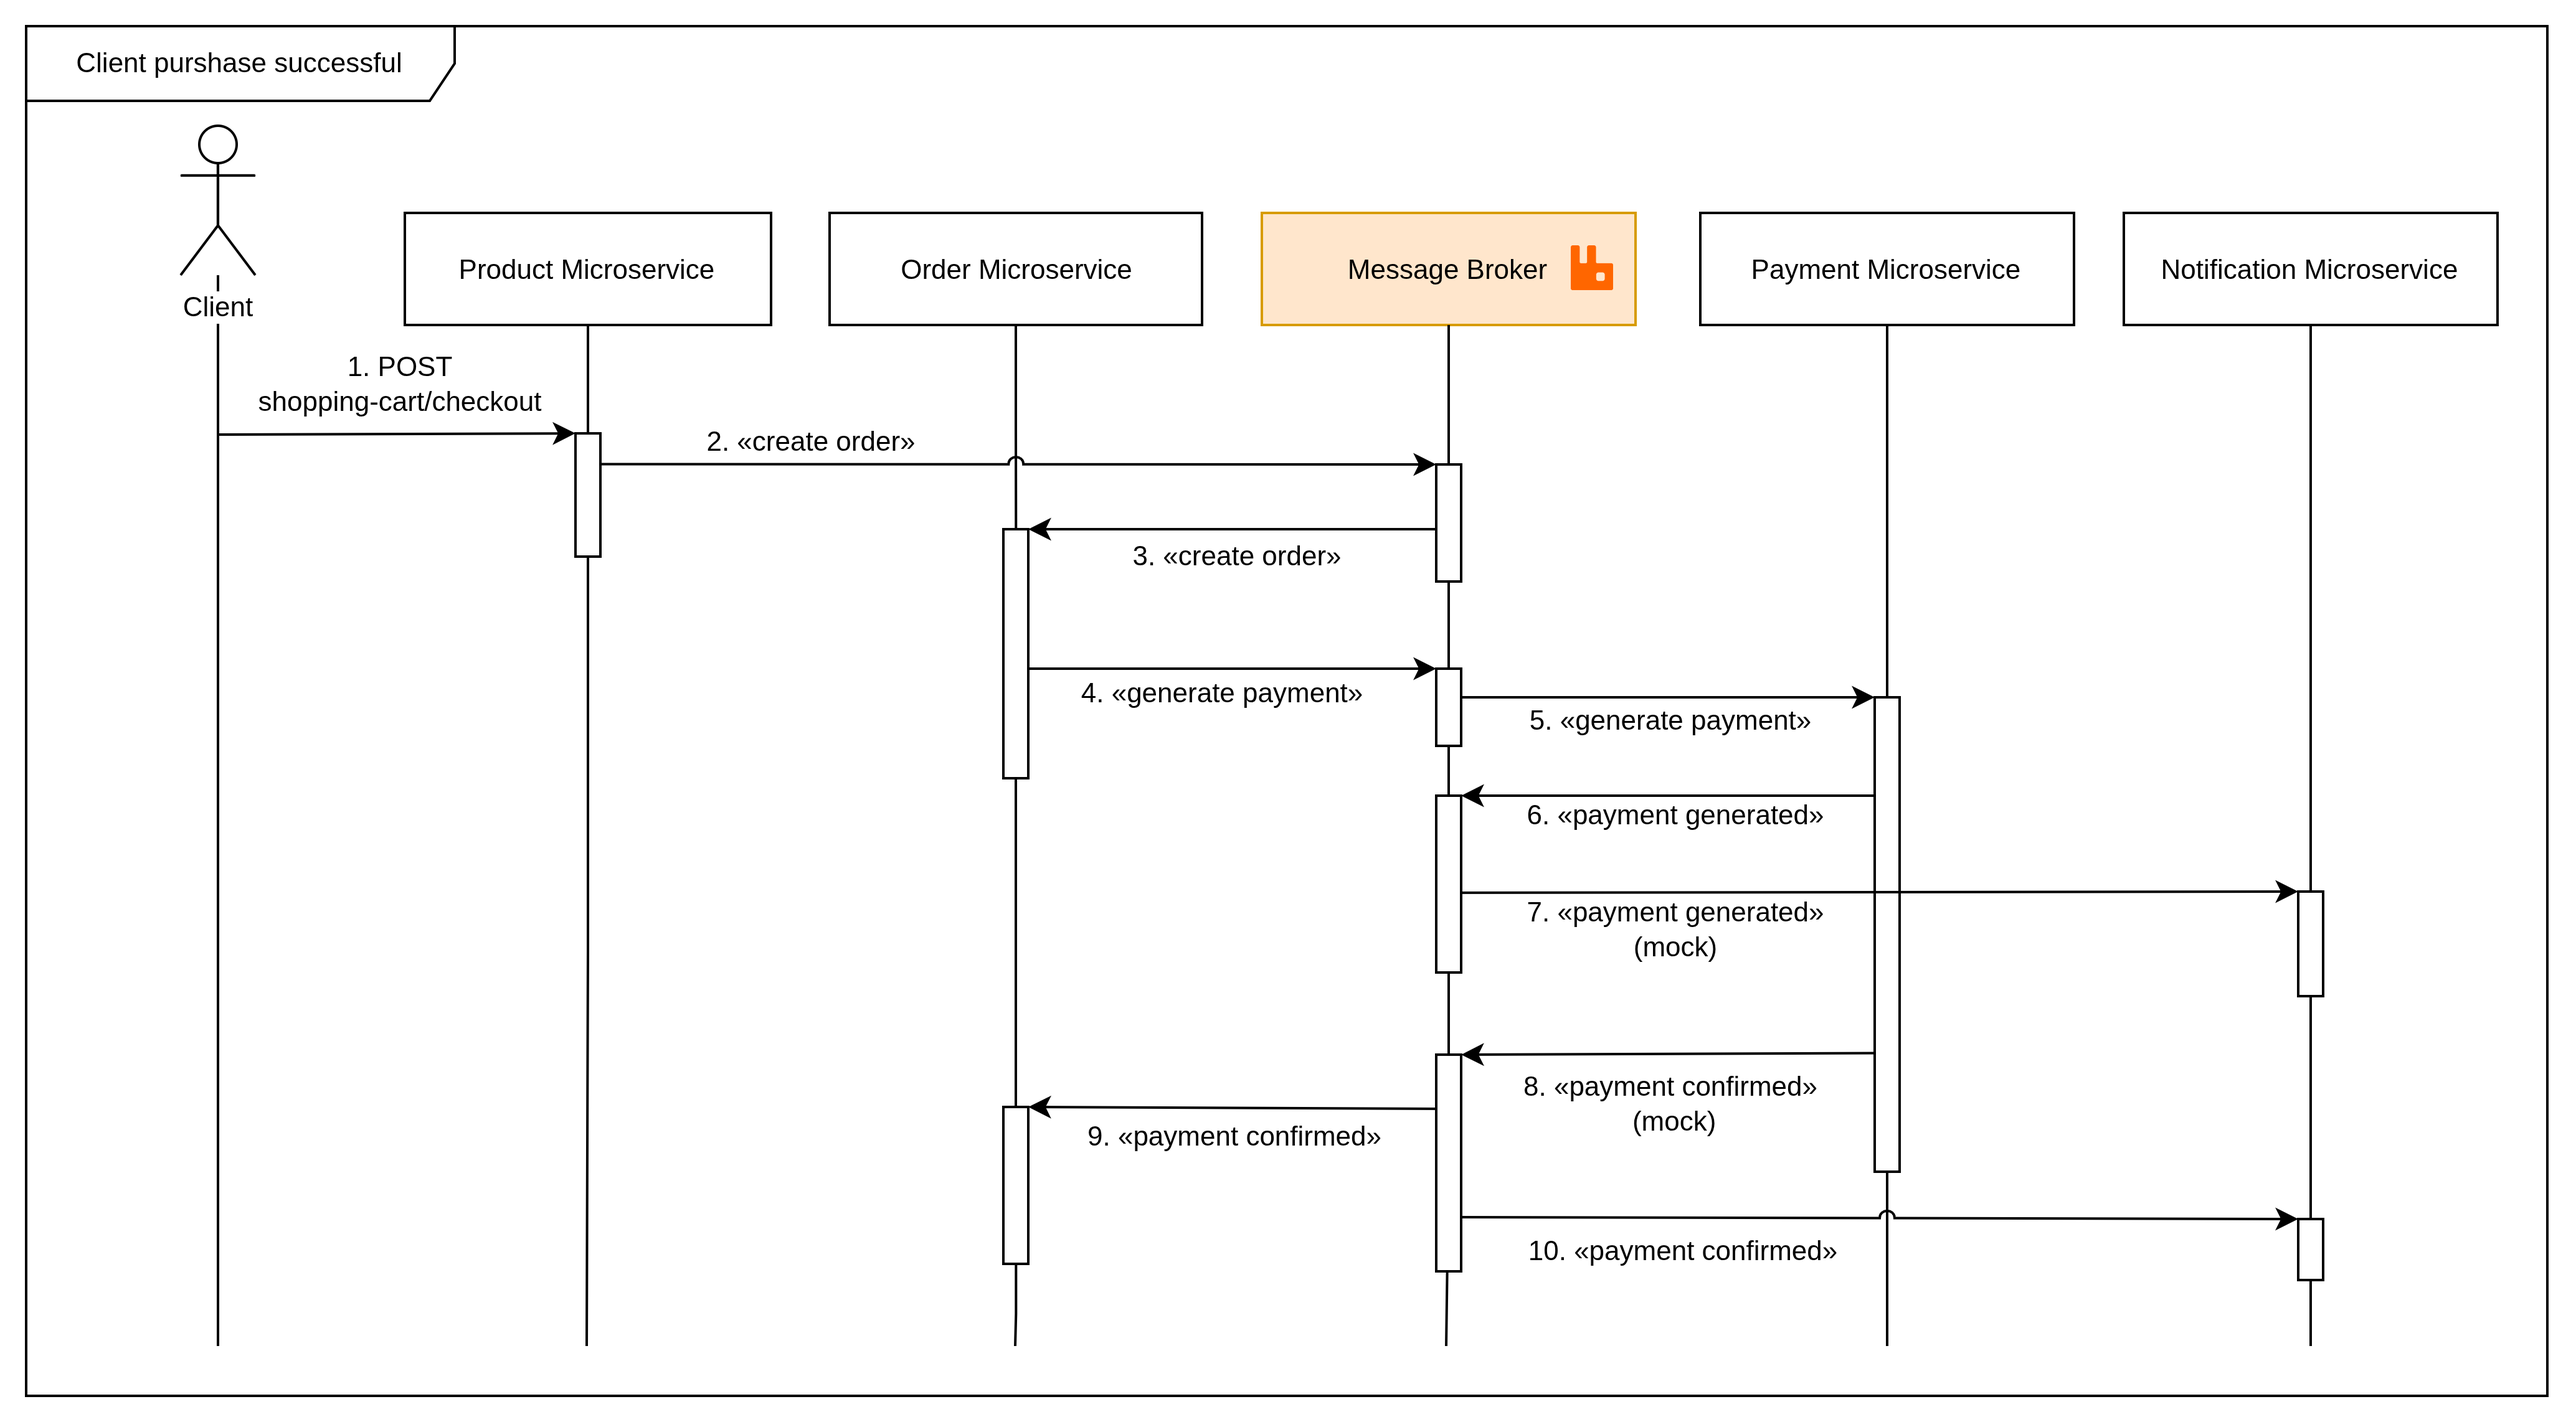
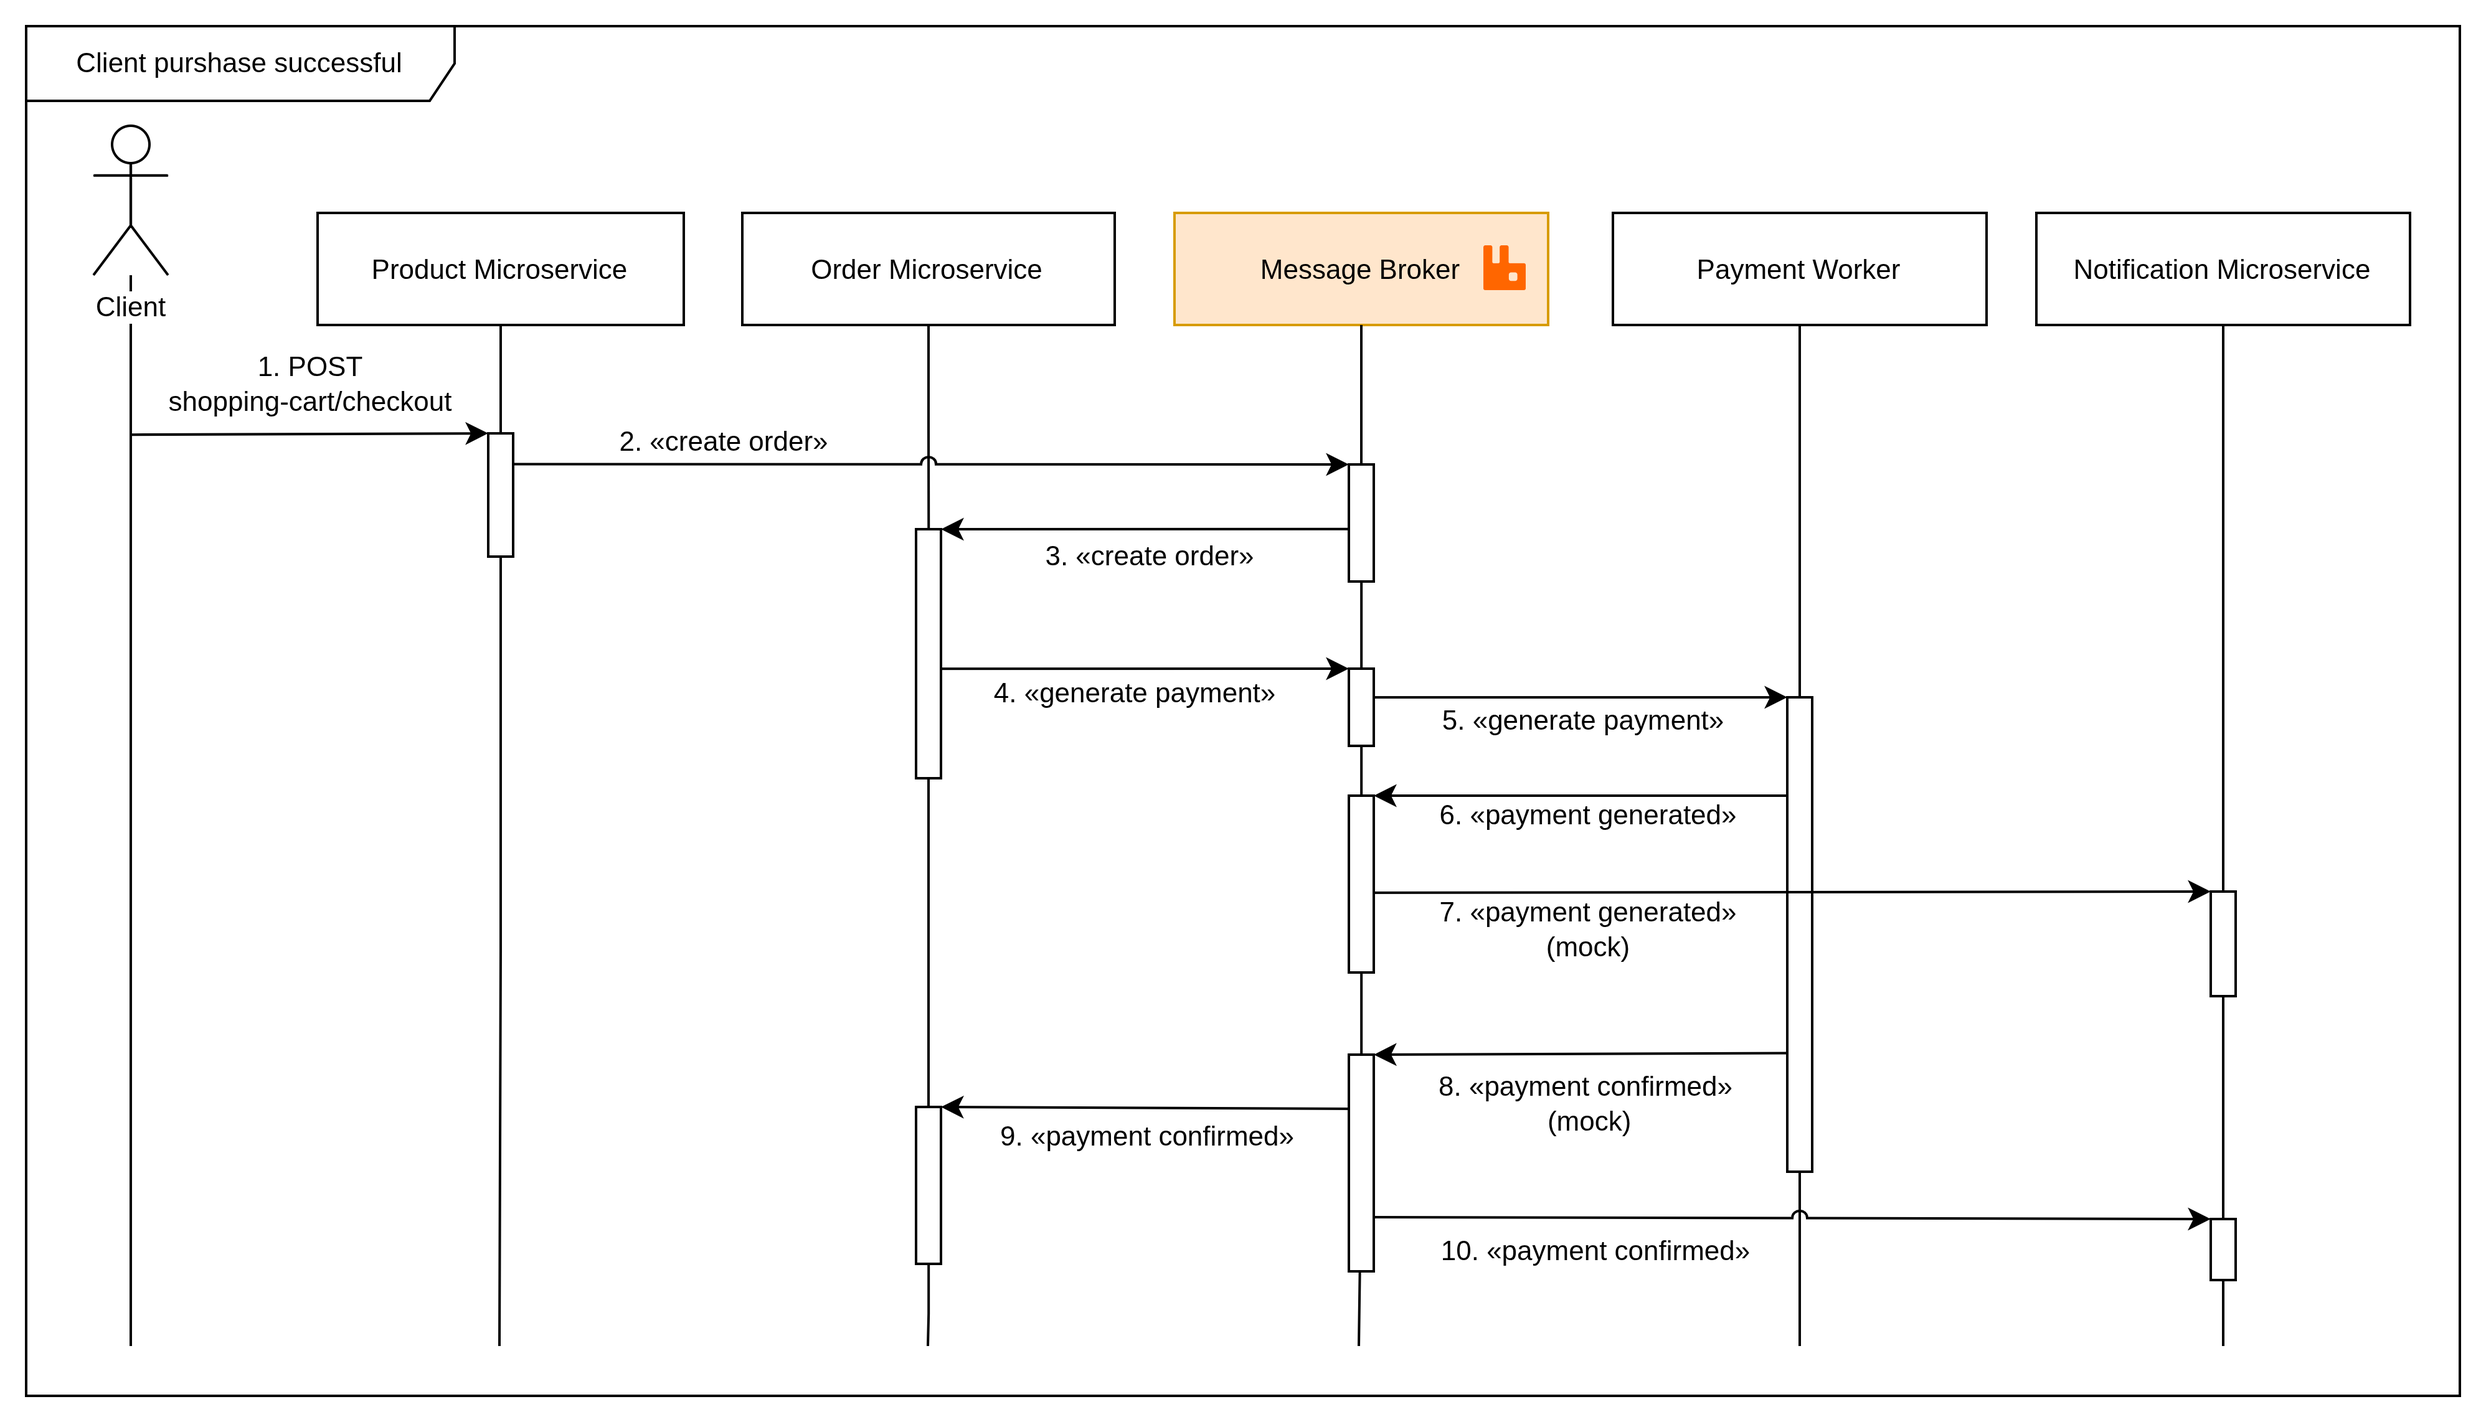
docs: update README

diff --git a/README.md b/README.md
@@ -25,14 +25,6 @@ E-Commerce platform
 ![Static Badge](https://img.shields.io/badge/Grafana-11.5-F46800?logo=grafana)
 ![Static Badge](https://img.shields.io/badge/Prometheus-3.1-E6522C?logo=prometheus)
 
-
-
-
-
-
-
-
-
 </div>
 
 
@@ -41,9 +33,8 @@ E-Commerce platform
 1. [Identity](/microservice-identity/README.md) - Authentication and user profile management.
 2. [Product](/microservice-product/README.md) - Product catalogue, stock level and wishlist.
 3. [Order](/microservice-order/README.md) - Orders life cycle and shopping cart.
-4. [Payment](/microservice-payment/README.md) - Payment management.
-5. [Notification (Deprecated)](/microservice-notification/README.md) - User notifications management.
-6. [Notification v2](/microservice-notification-v2/README.md) - User notifications management.
+4. [Notification v2](/microservice-notification-v2/README.md) - User notifications management.
+5. [Payment Worker](/worker-payment/README.md) - Payment status management (mock).
 
 ---
 
@@ -122,7 +113,6 @@ The HTTPS will be automatically configured with Caddy, and services will be avai
 | Identity              | https://localhost/identity     |
 | Product               | https://localhost/product      |
 | Order                 | https://localhost/order        |
-| Payment               | https://localhost/payment      |
 | Notification          | https://localhost/notification |
 | Grafana               | http://localhost:3000          |
 | Prometheus Panel      | http://localhost:9090          |
@@ -170,7 +160,6 @@ Services will be available at:
 | Identity      | https://yourdomain.com/identity    |
 | Product       | https://yourdomain.com/product     |
 | Order         | https://yourdomain.com/order     |
-| Payment       | https://yourdomain.com/payment     |
 | Notification | https://yourdomain.com/notification     |
 | Grafana       | https://grafana.yourdomain.com   |
 | Prometheus Panel   | https://prometheus.yourdomain.com   |
